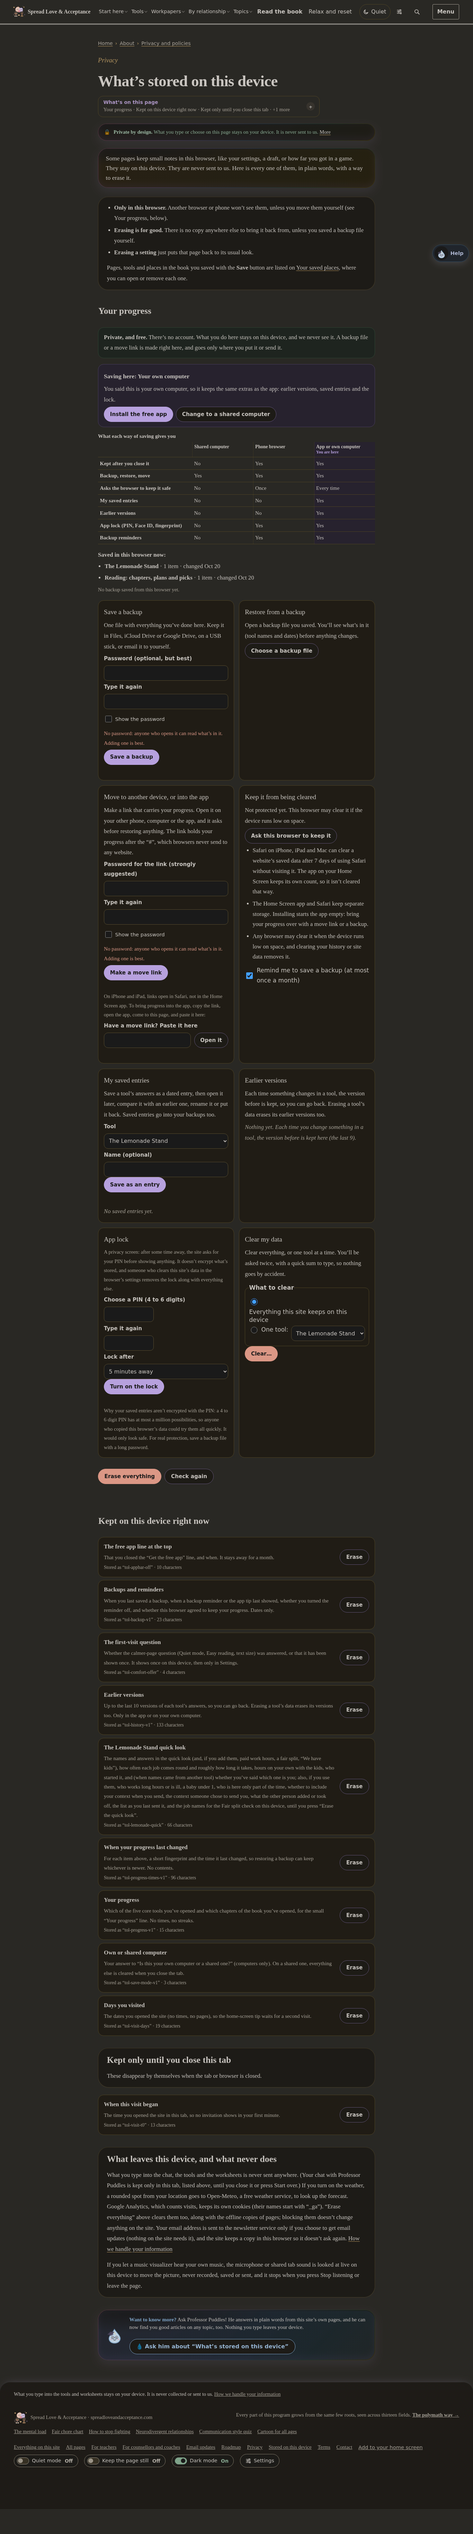
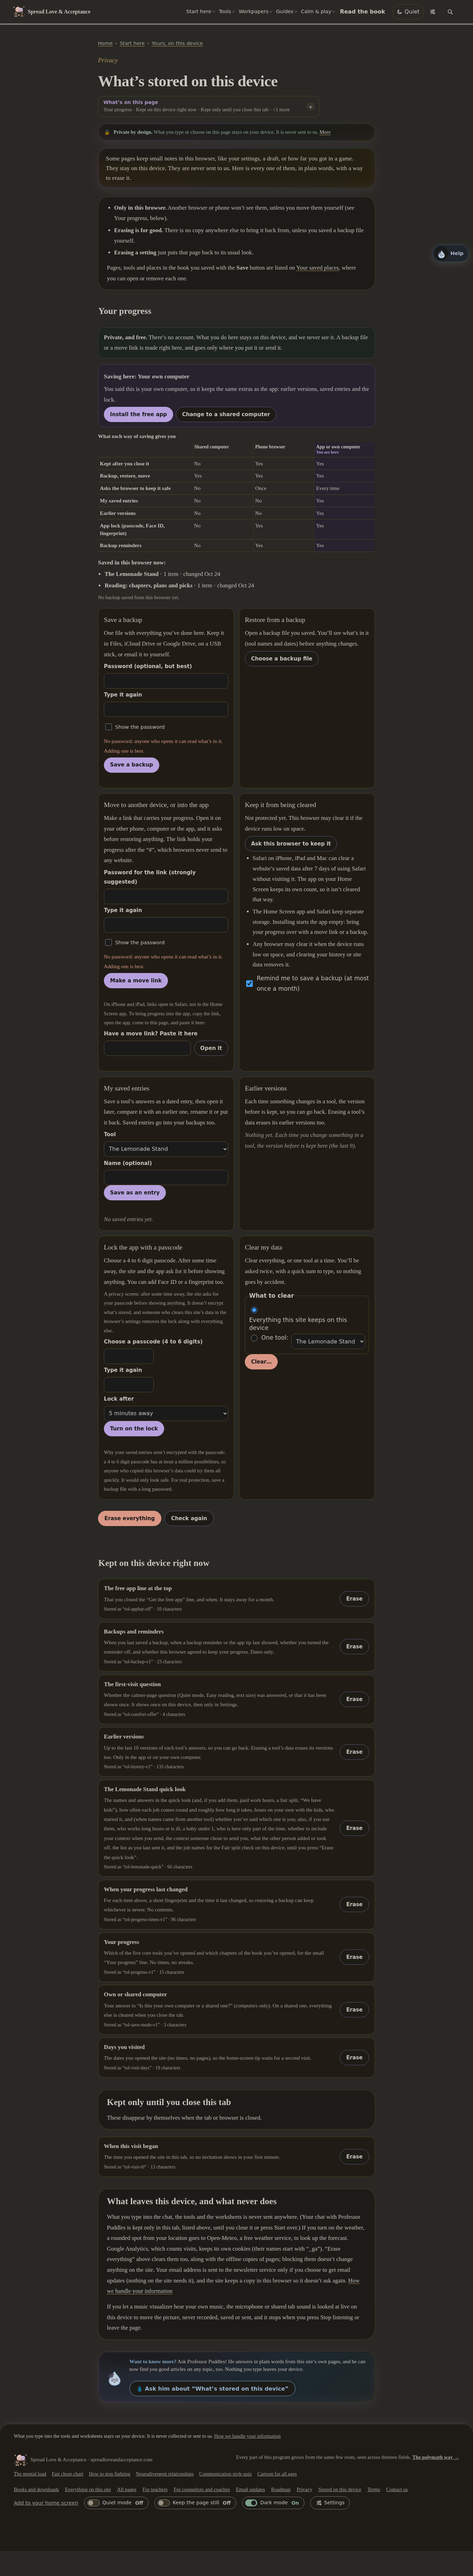
Work in progress (helpers running)
Claude-Session: https://claude.ai/code/session_01F11x81sfGg3qnfmPYFW4i1

diff --git a/assets/js/pals-cam-sleep.js b/assets/js/pals-cam-sleep.js
@@ -45,14 +45,15 @@
   }
 
   // ------------------------------------------------------------------ the pals
-  var HOME = { tidbit: { dx: -27, face: 1 }, sugarfoot: { dx: 27, face: -1 } };
+  var PS = 1.3; // the pals' size in the room
+  var HOME = { tidbit: { dx: -52, face: 1 }, sugarfoot: { dx: 52, face: -1 } };
   function newPal(id) { return { id: id, look: id === 'tidbit' ? 'collar' : 'drop', homeDx: HOME[id].dx, face: HOME[id].face, x: 0, y: 0, pose: 'lie', rot: 0, lift: 0, ph: 0, tilt: 0, blink: true, carry: false, side: false, sy: 1, asleep: true, breaths: [], nextB: 0, period: id === 'tidbit' ? 3.9 : 4.9, eyeOpen: 0, star: 0 }; }
   var PALS = { tidbit: newPal('tidbit'), sugarfoot: newPal('sugarfoot') };
 
   // ------------------------------------------------------------------ state
   var S = { on: false, t0: 0, T: 0, last: 0, raf: 0, calm: calmNow(), ev: null, nextEv: 0, lastType: '', zs: [], cx: 320, LW: 640,
     timerMin: 0, timerEnd: 0, ending: 0, ended: false, dim: true, bed: 'off', snore: true, wake: true, lock: null, fps: 30, sinceDraw: 0,
-    fridge: 0, fridgeLight: 0, boneFloor: 0, boneLeft: 0, bubble: null, bump: null };
+    fridge: 0, fridgeLight: 0, boneFloor: 0, boneLeft: 0, bubble: null, bump: null, lay: { couch: -232, fridge: 186, bowl: 140, light: 100, shift: 0 } };
   var cv = null, g = null, W = 0, H = 0, DPR = 1, geo = null;
 
   // ------------------------------------------------------------------ audio
@@ -234,7 +235,7 @@
     var ev = S.ev; if (!ev) return;
     var p = PALS[ev.who], o = PALS[ev.who === 'tidbit' ? 'sugarfoot' : 'tidbit'], u = (S.T - ev.t0) / ev.k, hx = homeX(p);
     p.asleep = true; p.pose = 'lie'; p.rot = 0; p.lift = 0; p.side = false; p.tilt = 0; p.carry = false; p.x = hx; p.sy = 1; p.blink = true;
-    var fridgeX = S.cx + 152, bowlX = S.cx + 104, couchX = S.cx - 112;
+    var fridgeX = S.cx + S.lay.fridge - 8, bowlX = S.cx + S.lay.bowl, couchX = S.cx + S.lay.couch + 96;
     switch (ev.type) {
       case 'fridge': {
         p.asleep = u < 1 || u > 21;
@@ -286,7 +287,8 @@
       case 'kick': {
         // a dream: on her side, paws paddling, a muffled little "boof", and a dream bubble with a ball in it
         var on = sio(seg(u, 0.2, 0.9)) * (1 - sio(seg(u, 5, 5.8)));
-        p.side = on > 0.5; p.rot = on * (p.face > 0 ? -1.35 : 1.35); p.pose = on > 0.5 ? 'run' : 'lie'; p.ph = u * 13; p.lift = on * 4;
+        // still lying down, but her legs run in place (squashed low, nose down) while she dreams
+        p.side = on > 0.5; p.pose = on > 0.5 ? 'run' : 'lie'; p.ph = u * (S.calm ? 8 : 13); p.sy = on > 0.5 ? 0.74 : 1; p.rot = on > 0.5 ? 0.08 * p.face : 0; p.lift = on > 0.5 ? -3 : 0;
         S.bubble = on > 0.3 ? { who: p.id, a: on, t: u } : null;
         if (u > 2.2 && once(ev, 'w')) SFX.woof(p.id);
         if (u > 3.6 && Math.random() < 0.5 && once(ev, 'w2')) SFX.woof(p.id);
@@ -294,7 +296,7 @@
       }
       case 'snuggle': {
         // scoots in closer to her pal (or back out a little, if they're already close)
-        if (!ev.to) { var gap = Math.abs(homeX(o) - hx); ev.to = gap > 44 ? p.homeDx + (p.homeDx < 0 ? 9 : -9) : HOME[p.id].dx; ev.from = p.homeDx; }
+        if (!ev.to) { var gap = Math.abs(homeX(o) - hx); ev.to = gap > 96 ? p.homeDx + (p.homeDx < 0 ? 9 : -9) : HOME[p.id].dx; ev.from = p.homeDx; }
         var q = sio(seg(u, 0.8, 4.2)); p.homeDx = mix(ev.from, ev.to, q); p.x = homeX(p); p.lift = Math.sin(q * Math.PI * 4) * 1.2;
         if (once(ev, 'ru')) SFX.rustle();
         break;
@@ -329,8 +331,21 @@
 
   // ------------------------------------------------------------------ painting the room
   function geoFor(w, h) {
-    var lw = clamp(w / h * LH, 380, 640), k = Math.min(w / lw, h / LH), ox = (w - lw * k) / 2, oy = (h - LH * k) * 0.55;
+    var lw = clamp(w / h * LH, 330, 640), k = Math.min(w / lw, h / LH), ox = (w - lw * k) / 2, oy = (h - LH * k) * 0.55;
     return { LW: lw, k: k, ox: ox, oy: oy, x0: -ox / k, x1: (w - ox) / k, y0: -oy / k, y1: (h - oy) / k };
+  }
+  // where things stand, from the middle of the room: roomy on a wide screen, closer together on a phone held upright
+  function layout(lw) {
+    var half = lw / 2;
+    return { couch: -Math.min(232, half - 4), fridge: Math.min(186, half - 56), bowl: Math.min(140, half - 74), light: Math.min(100, half - 92), shift: half < 200 ? 18 : 0 };
+  }
+  var MOON = null;
+  function moonSprite() {
+    if (MOON) return MOON;
+    var c = document.createElement('canvas'); c.width = c.height = 48; var m = c.getContext('2d');
+    m.fillStyle = '#F4E9C8'; m.beginPath(); m.arc(24, 24, 18, 0, TAU); m.fill();
+    m.globalCompositeOperation = 'destination-out'; m.beginPath(); m.arc(32, 17, 16, 0, TAU); m.fill();
+    return (MOON = c);
   }
   function drawRoom(T) {
     var cx = S.cx, x0 = geo.x0, x1 = geo.x1, y0 = geo.y0, y1 = geo.y1;
@@ -340,12 +355,12 @@
     var fg = g.createLinearGradient(0, G, 0, y1); fg.addColorStop(0, '#2B2232'); fg.addColorStop(1, '#1A1520'); g.fillStyle = fg; g.fillRect(x0, G, x1 - x0, y1 - G);
     g.fillStyle = 'rgba(0,0,0,.25)'; g.fillRect(x0, G - 6, x1 - x0, 6); // baseboard
     // the window: a quiet moon and a few stars that barely twinkle
-    var wx = cx - 72, wy = 58, ww = 92, wh = 84;
+    var wx = cx - 72 - S.lay.shift, wy = 58, ww = 92, wh = 84;
     rr(g, wx - 5, wy - 5, ww + 10, wh + 10, 6, '#3A3150');
     var sk = g.createLinearGradient(0, wy, 0, wy + wh); sk.addColorStop(0, '#0B1030'); sk.addColorStop(1, '#1C2350'); rr(g, wx, wy, ww, wh, 3, sk);
     g.save(); g.beginPath(); g.rect(wx, wy, ww, wh); g.clip();
     glow(g, wx + 62, wy + 26, 40, '250,236,200', 0.18);
-    circ(g, wx + 62, wy + 26, 11, '#F4E9C8'); circ(g, wx + 67, wy + 22, 10, '#141A40'); // a crescent
+    g.drawImage(moonSprite(), wx + 62 - 13, wy + 26 - 13, 26, 26); // a crescent moon
     [[12, 14], [30, 40], [20, 64], [44, 18], [78, 58], [84, 12], [56, 70]].forEach(function (s, i) {
       var tw = S.calm ? 0.75 : 0.6 + 0.3 * Math.sin(T * 0.35 + i * 1.9); circ(g, wx + s[0], wy + s[1], i % 3 ? 0.8 : 1.15, 'rgba(255,250,235,' + tw.toFixed(2) + ')');
     });
@@ -354,17 +369,17 @@
     // curtains
     ell(g, wx - 6, wy + 40, 9, 52, '#3B2E4D'); ell(g, wx + ww + 6, wy + 40, 9, 52, '#3B2E4D');
     // moonlight on the floor (very soft)
-    g.fillStyle = 'rgba(190,200,255,0.035)'; g.beginPath(); g.moveTo(wx + 8, G); g.lineTo(wx + ww + 30, G); g.lineTo(wx + ww + 70, y1); g.lineTo(wx + 10, y1); g.closePath(); g.fill();
+    g.fillStyle = 'rgba(190,200,255,0.025)'; g.beginPath(); g.moveTo(wx + 8, G); g.lineTo(wx + ww + 30, G); g.lineTo(wx + ww + 70, y1); g.lineTo(wx + 10, y1); g.closePath(); g.fill();
     // a framed picture of a bone (of course)
-    rr(g, cx + 38, 84, 40, 30, 3, '#4A3C5C'); rr(g, cx + 41, 87, 34, 24, 2, '#2E2742'); bone(g, cx + 58, 99, 1.1, -0.2, '#CDBFA6');
+    var px = cx + 38 - S.lay.shift; rr(g, px, 84, 40, 30, 3, '#4A3C5C'); rr(g, px + 3, 87, 34, 24, 2, '#2E2742'); bone(g, px + 20, 99, 1.1, -0.2, '#CDBFA6');
     // the couch, on the left
-    var cxl = cx - 205;
+    var cxl = cx + S.lay.couch;
     rr(g, cxl, 214, 96, 44, 12, '#3E3558'); rr(g, cxl - 6, 232, 20, 44, 9, '#463C63'); rr(g, cxl + 82, 232, 20, 44, 9, '#463C63');
     rr(g, cxl + 8, 242, 80, 24, 7, '#4C4169'); rr(g, cxl + 4, 266, 88, 12, 5, '#3A3152');
     ell(g, cxl + 30, 236, 14, 10, '#6A5A8A', -0.2); // a cushion
     g.fillStyle = '#2A2238'; g.fillRect(cxl + 4, 276, 6, 6); g.fillRect(cxl + 86, 276, 6, 6);
     // the refrigerator, on the right (its door opens when someone wants a bone)
-    var fx = cx + 160, fy = 150, fw = 52, fh = G - fy;
+    var fx = cx + S.lay.fridge, fy = 150, fw = 52, fh = G - fy;
     var open = S.fridge;
     if (open > 0.01) {
       rr(g, fx, fy, fw, fh, 5, '#4A4256');
@@ -380,17 +395,17 @@
       rr(g, fx + 6, fy + 14, 3, 24, 1.5, '#8F88A3'); rr(g, fx + 6, fy + fh * 0.36 + 12, 3, 30, 1.5, '#8F88A3');
     }
     // the water bowl
-    var bx = cx + 104; ell(g, bx, G + 6, 14, 4, 'rgba(0,0,0,.25)'); rr(g, bx - 13, G - 3, 26, 9, 4, '#6B8FB6'); ell(g, bx, G - 3, 12, 2.6, '#9CC3E6');
+    var bx = cx + S.lay.bowl; ell(g, bx, G + 6, 14, 4, 'rgba(0,0,0,.25)'); rr(g, bx - 13, G - 3, 26, 9, 4, '#6B8FB6'); ell(g, bx, G - 3, 12, 2.6, '#9CC3E6');
     // the plug-in night-light by the floor: a warm, steady glow (never flickers)
-    var nx = cx + 70; glow(g, nx, G - 22, 62, '255,190,120', 0.16); rr(g, nx - 5, G - 30, 10, 14, 4, '#FFD9A0'); glow(g, nx, G - 23, 14, '255,230,180', 0.5);
+    var nx = cx + S.lay.light; glow(g, nx, G - 22, 62, '255,190,120', 0.16); rr(g, nx - 5, G - 30, 10, 14, 4, '#FFD9A0'); glow(g, nx, G - 23, 14, '255,230,180', 0.5);
     // the rug the pals sleep on
-    ell(g, cx, G + 9, 90, 15, '#5C3F58'); ell(g, cx, G + 9, 80, 12, '#6E4C69'); g.strokeStyle = 'rgba(255,220,240,.12)'; g.lineWidth = 1.5; g.beginPath(); g.ellipse(cx, G + 9, 70, 9.5, 0, 0, TAU); g.stroke();
+    ell(g, cx, G + 9, 108, 15, '#5C3F58'); ell(g, cx, G + 9, 97, 12, '#6E4C69'); g.strokeStyle = 'rgba(255,220,240,.12)'; g.lineWidth = 1.5; g.beginPath(); g.ellipse(cx, G + 9, 86, 9.5, 0, 0, TAU); g.stroke();
     // a ball and a blanket corner, for a lived-in look
-    circ(g, cx - 92, G + 4, 6, '#B85C6B'); g.strokeStyle = 'rgba(255,255,255,.25)'; g.lineWidth = 1; g.beginPath(); g.arc(cx - 92, G + 4, 6, -1, 1); g.stroke();
+    var ballX = cx - 118; circ(g, ballX, G + 4, 6, '#B85C6B'); g.strokeStyle = 'rgba(255,255,255,.25)'; g.lineWidth = 1; g.beginPath(); g.arc(ballX, G + 4, 6, -1, 1); g.stroke();
   }
   function drawPal(p, T) {
     var P = window.TOLPups; if (!P) return;
-    var L = P.looks[p.look], s = 1.18, br = p.pose === 'lie' && !p.side ? breathAt(p, T) : 0;
+    var L = P.looks[p.look], s = PS, br = p.pose === 'lie' && !p.side ? breathAt(p, T) : 0;
     var x = p.x, y = G + 8 + p.y;
     ell(g, x + 2 * p.face, y + 1, 24 * s * (1 + p.y / 60), 4 * s, 'rgba(0,0,0,.28)');
     g.save(); g.translate(x, y - p.lift);
@@ -403,7 +418,7 @@
     g.restore();
   }
   // where her head is, for the z's and the dream bubble
-  function headOf(p) { var s = 1.18; return { x: p.x + 19 * s * p.face, y: G + 8 + p.y - p.lift - 21 * s }; }
+  function headOf(p) { var s = PS; return { x: p.x + 19 * s * p.face, y: G + 8 + p.y - p.lift - 21 * s }; }
   function drawZs(T, dt) {
     var calm = S.calm;
     ['tidbit', 'sugarfoot'].forEach(function (id) {
@@ -472,7 +487,7 @@
     var r = cv.getBoundingClientRect(); DPR = Math.min(2, window.devicePixelRatio || 1);
     var w = Math.max(200, Math.round(r.width)), h = Math.max(150, Math.round(r.height));
     W = Math.round(w * DPR); H = Math.round(h * DPR); cv.width = W; cv.height = H;
-    geo = geoFor(w, h); S.LW = geo.LW; S.cx = geo.LW / 2;
+    geo = geoFor(w, h); S.LW = geo.LW; S.cx = geo.LW / 2; S.lay = layout(geo.LW);
     ['tidbit', 'sugarfoot'].forEach(function (id) { var p = PALS[id]; if (!S.ev || S.ev.who !== id) p.x = homeX(p); });
     render(S.T, 0);
   }
